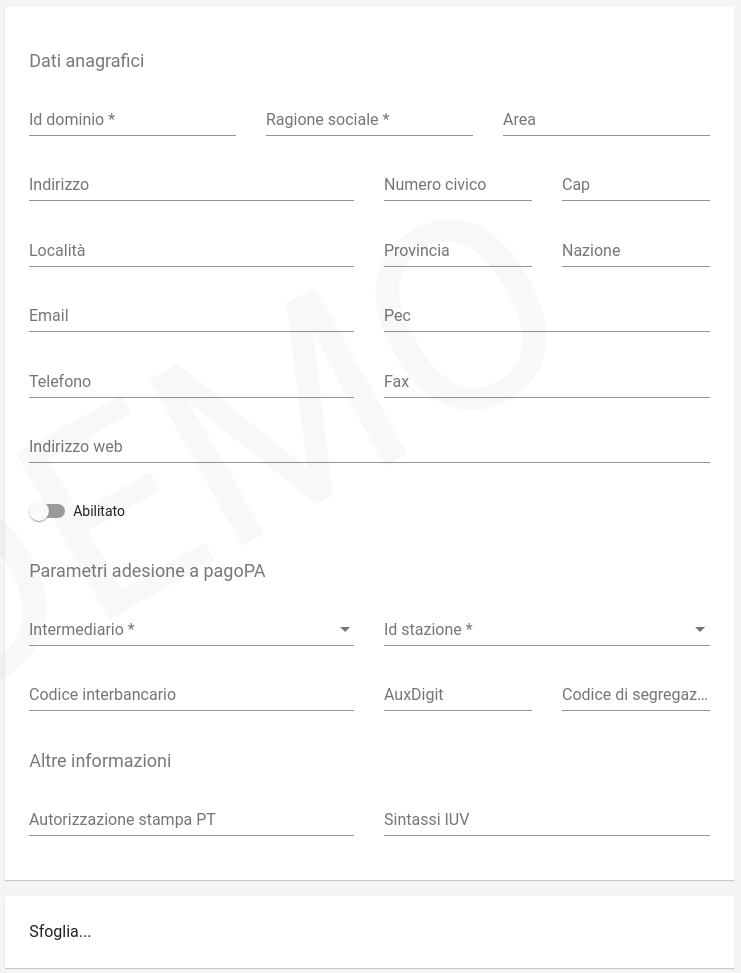
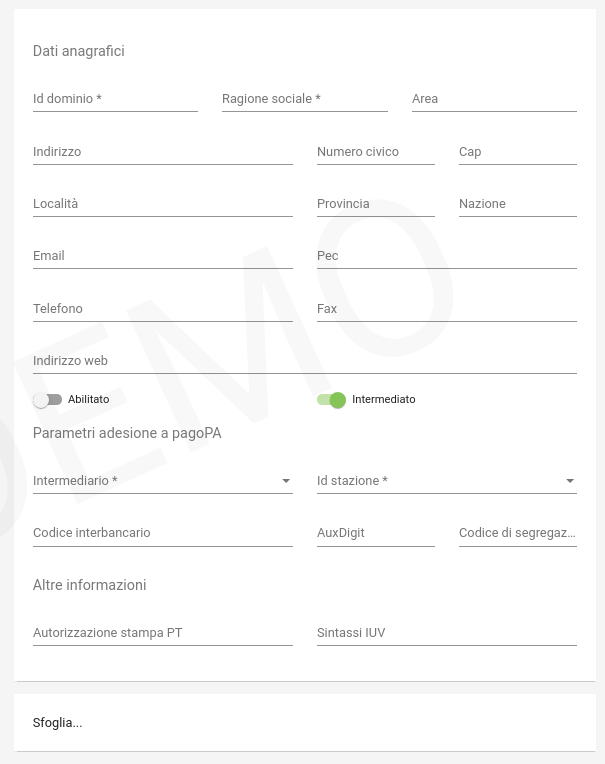
Aggiornata descrizione di configurazione di un EC.

diff --git a/docs/cruscotto/configurazione/enti/index.rst b/docs/cruscotto/configurazione/enti/index.rst
@@ -22,7 +22,7 @@ Accedendo alla sezione *Configurazioni > Enti Creditori*, viene visualizzato l'e
 Nuovo Ente Creditore
 ~~~~~~~~~~~~~~~~~~~~
 
-Utilizzando il pulsante di creazione, presente in basso a destra nella pagina di elenco, è possibile procedere con la creazione di un nuovo Ente Creditore, compilando il seguente form di creazione:
+Utilizzando il pulsante di creazione, presente in basso a destra nella pagina di elenco, è possibile procedere con la creazione di un nuovo Ente Creditore:
 
 .. figure:: ../../_images/18ParametriDominio.png
    :align: center
@@ -36,7 +36,8 @@ Utilizzando il pulsante di creazione, presente in basso a destra nella pagina di
 
    "Id Dominio", "Identificativo dell'Ente Creditore in pagoPA, corrisponde al Codice Fiscale dell'ente"
    "Altre informazioni anagrafiche", "Dovrebbero corrispondere a quanto indicato nell'IndicePA"
-   "Abilitato", "Indica se il dominio è usabile da GovPay per gestire nuovi pagamenti (abilitato) o se si vogliono impedire nuove richieste (disabilitato)", ""
+   "Abilitato", "Indica se il dominio è usabile da GovPay per gestire nuovi pagamenti (abilitato) o se si vogliono impedire nuove richieste (disabilitato)"
+   "Intermediato", "Indica se l'Ente Creditore è intermediato dalla piattaforma oppure beneficiario di quota parte del dovuto ma non intermediato"
 
 .. csv-table:: Parametri adesione pagoPA
    :header: "Campo", "Descrizione"
@@ -67,7 +68,8 @@ I seguenti sono i placeholder di sistema, sovrascrivibili dall'applicazione chia
 Dettaglio Ente Creditore
 ~~~~~~~~~~~~~~~~~~~~~~~~
 
-Selezionando uno degli enti creditori presenti nella pagina di elenco si accede alla pagina di dettaglio, che si compone a partire dalle seguenti aree:
+Selezionando uno degli enti creditori presenti nella pagina di elenco si accede alla pagina di dettaglio, 
+che si compone a partire dalle seguenti aree nel caso di Enti Creditori intermediati:
 
 .. csv-table:: Aree del dettaglio Ente Creditore
    :header: "Area", "Descrizione"
@@ -79,6 +81,8 @@ Selezionando uno degli enti creditori presenti nella pagina di elenco si accede 
    "*Tipi Entrata*", "Anagrafica delle entrate, riferibili dalle voci pendenza delle posizioni."
    "*Tipi Pendenza*", "Anagrafica delle tipologie di pendenza."
    "*Connettori*", "Configurazione dei connettori di esportazione dati."
+
+Gli enti creditori non intermediati presenteranno solo una parte delle sezioni sopra elencate.
 
 Tramite il pulsante di modifica presente nella pagina di dettaglio è possibile procedere con l'aggiornamento dei dati di base, visualizzati nell'area "Riepilogo Informazioni". Si tenga presente che il **valore del campo “Codice Dominio” non è modificabile**.
 
